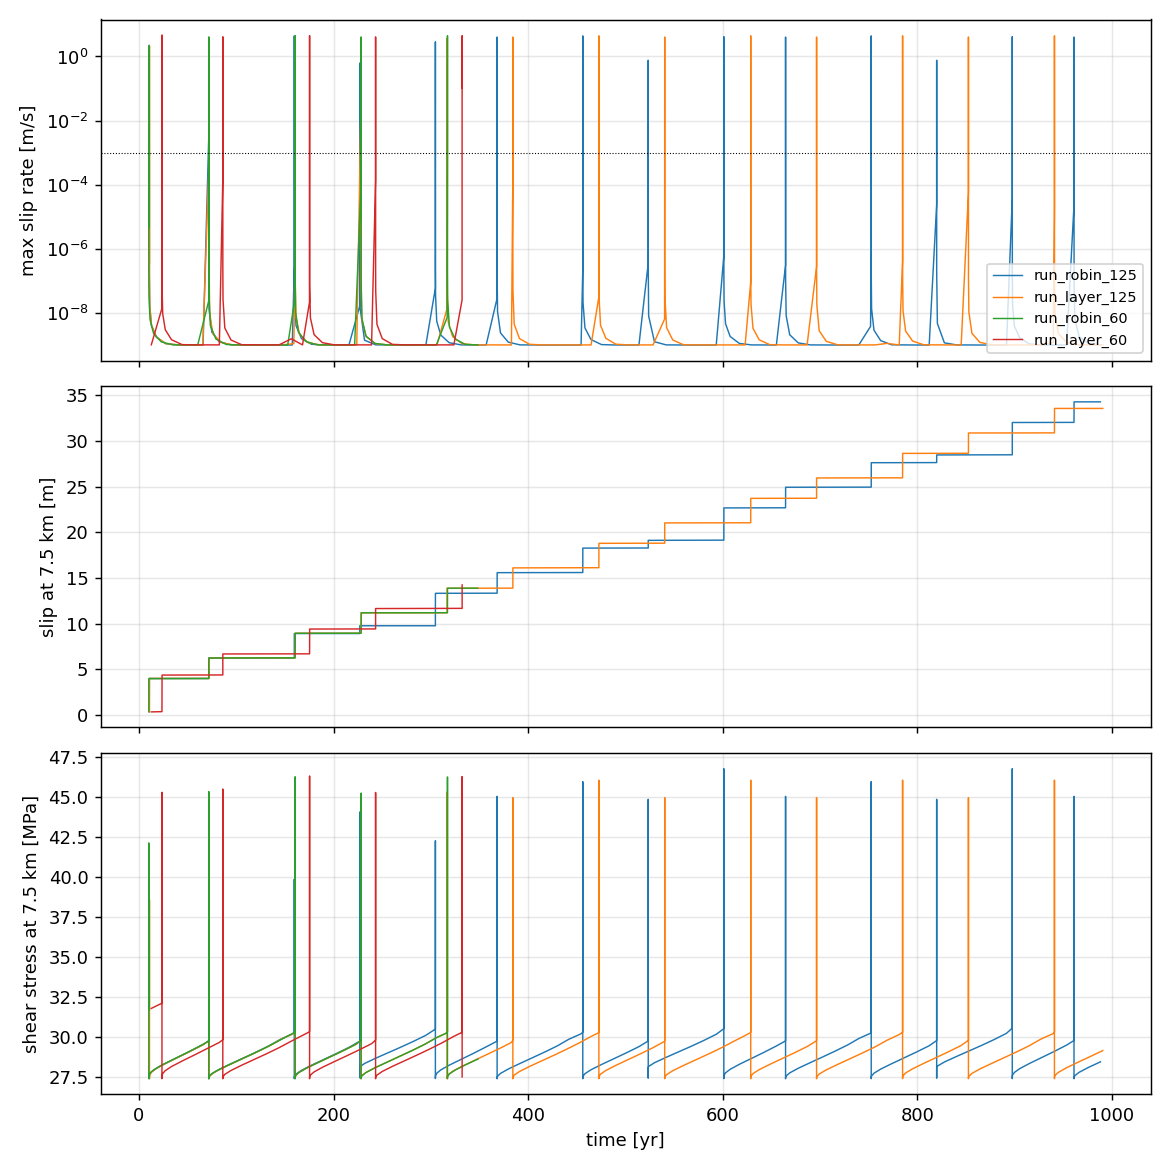
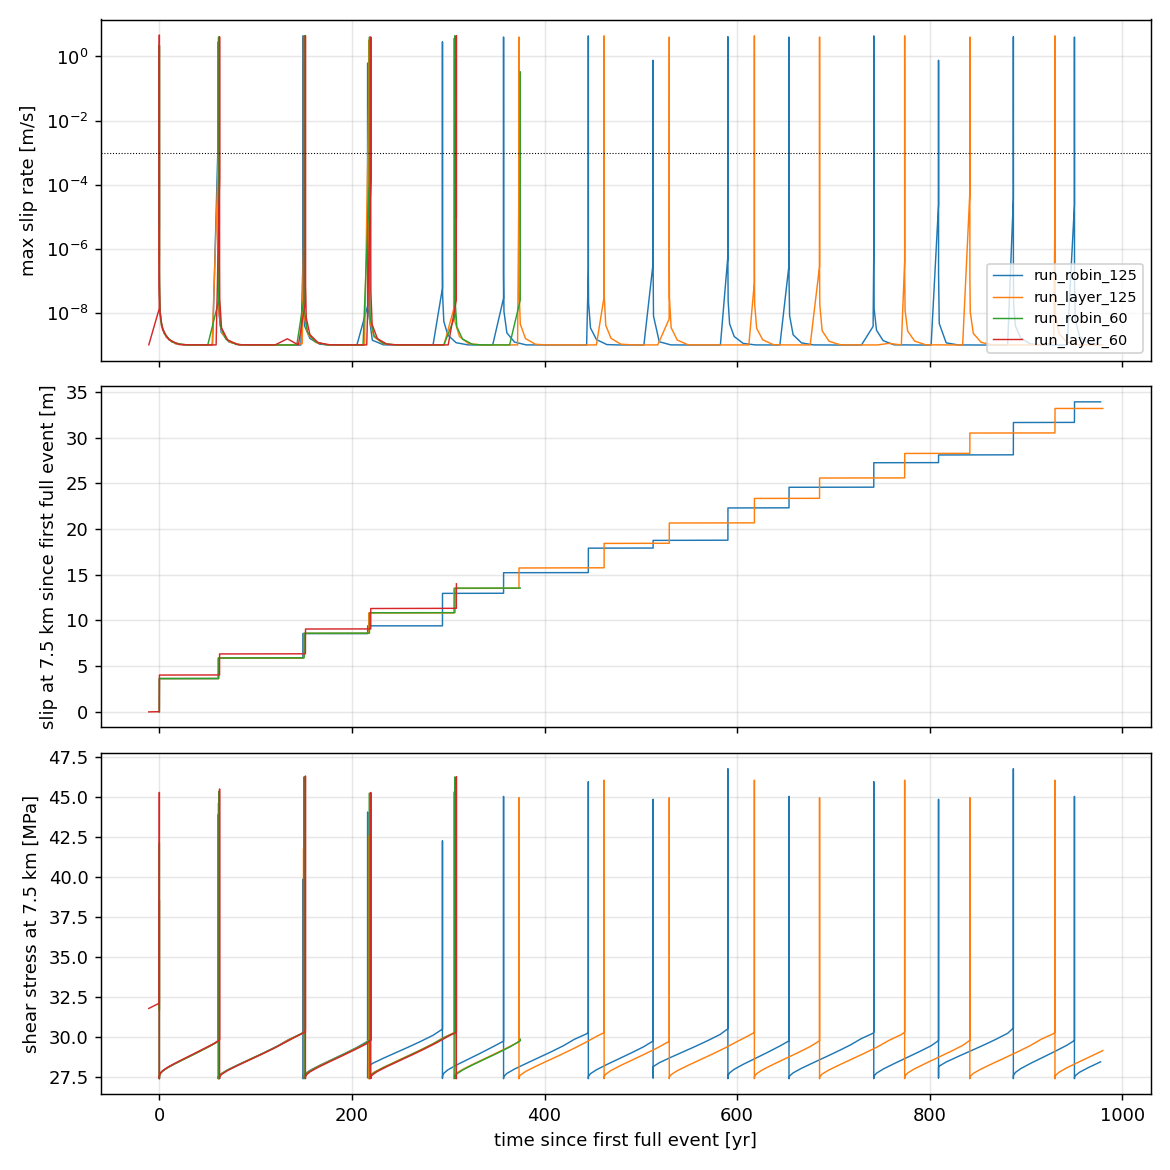
updated plotting script with alignment

diff --git a/seas_bp_tests/exp_tests/compare_runs.py b/seas_bp_tests/exp_tests/compare_runs.py
@@ -88,7 +88,9 @@ def summarize(label, d):
     return ev
 
 
-def main(paths):
+def main(paths, align=False):
+    """align=True shifts each run's time axis so that its first full event is at t = 0,
+    removing the noise-controlled timing of the first event (unstable initial state)."""
     import matplotlib
     matplotlib.use("Agg")
     import matplotlib.pyplot as plt
@@ -99,19 +101,28 @@ def main(paths):
             print("missing:", p)
     if not runs:
         return
+    shifts = {}
     for label, d in runs:
-        summarize(label, d)
+        ev = summarize(label, d)
+        fulls = [e for e in ev if e["full"]]
+        shifts[label] = fulls[0]["t_on"] if (align and fulls) else 0.0
+        if align and fulls:
+            print(f"  time axis shifted by -{shifts[label]:.3f} yr (first full event)")
 
     fig, ax = plt.subplots(3, 1, figsize=(9, 9), sharex=True)
     for label, d in runs:
-        ax[0].semilogy(d["t_yr"], d["Vmax"], lw=0.8, label=label)
-        ax[1].plot(d["t_yr"], d["slip_7p5km"], lw=0.8, label=label)
-        ax[2].plot(d["t_yr"], d["tau_7p5km_MPa"], lw=0.8, label=label)
+        t = d["t_yr"] - shifts[label]
+        s0 = d["slip_7p5km"][np.searchsorted(d["t_yr"], shifts[label])] if align else 0.0
+        ax[0].semilogy(t, d["Vmax"], lw=0.8, label=label)
+        ax[1].plot(t, d["slip_7p5km"] - s0, lw=0.8, label=label)
+        ax[2].plot(t, d["tau_7p5km_MPa"], lw=0.8, label=label)
     ax[0].axhline(V_SEIS, color="k", ls=":", lw=0.6)
     ax[0].set_ylabel("max slip rate [m/s]")
     ax[1].set_ylabel("slip at 7.5 km [m]")
     ax[2].set_ylabel("shear stress at 7.5 km [MPa]")
-    ax[2].set_xlabel("time [yr]")
+    ax[2].set_xlabel("time since first full event [yr]" if align else "time [yr]")
+    if align:
+        ax[1].set_ylabel("slip at 7.5 km since first full event [m]")
     ax[0].legend(fontsize=8)
     for a in ax:
         a.grid(alpha=0.3)
@@ -121,7 +132,9 @@ def main(paths):
 
 
 if __name__ == "__main__":
-    if len(sys.argv) < 2:
+    args = [a for a in sys.argv[1:] if a != "--align"]
+    if not args:
         print(__doc__)
+        print("options: --align   shift each run so its first full event is at t = 0")
         sys.exit(1)
-    main(sys.argv[1:])
+    main(args, align="--align" in sys.argv)
